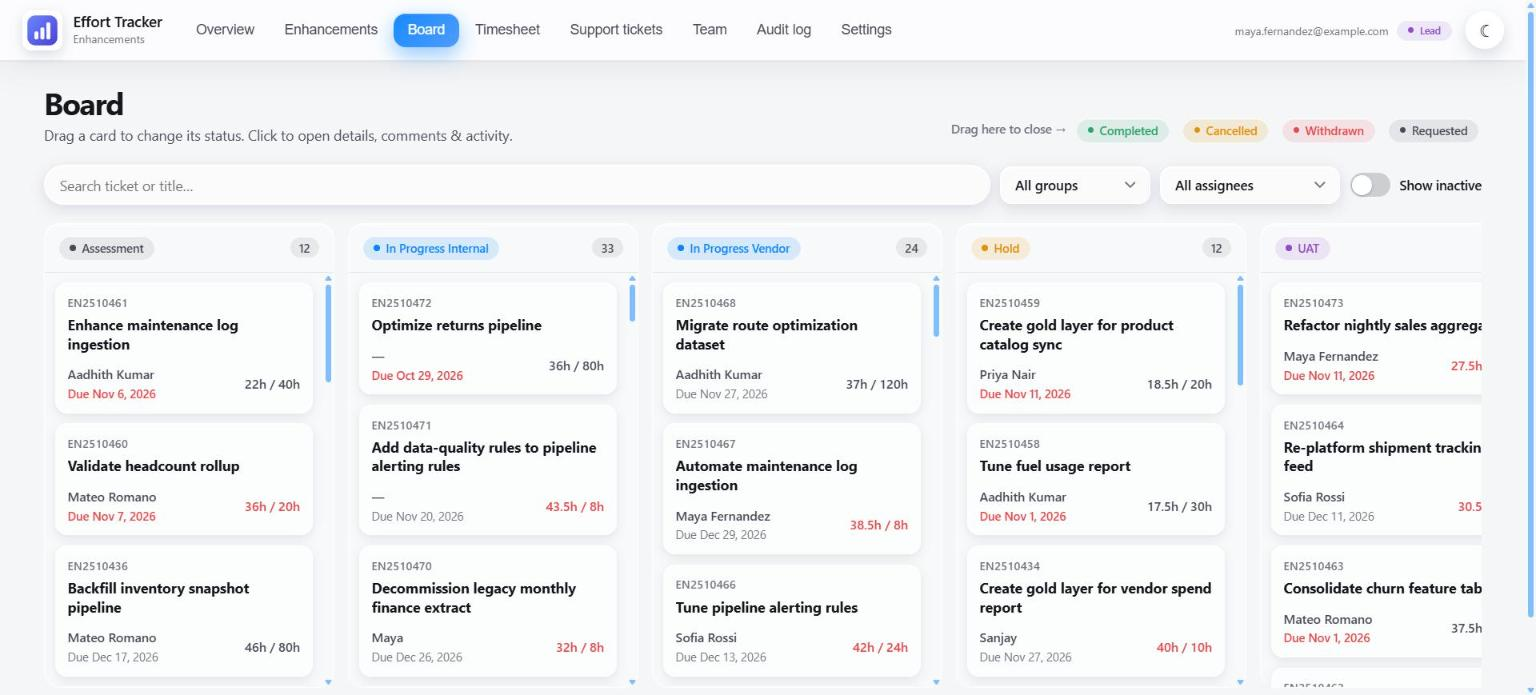
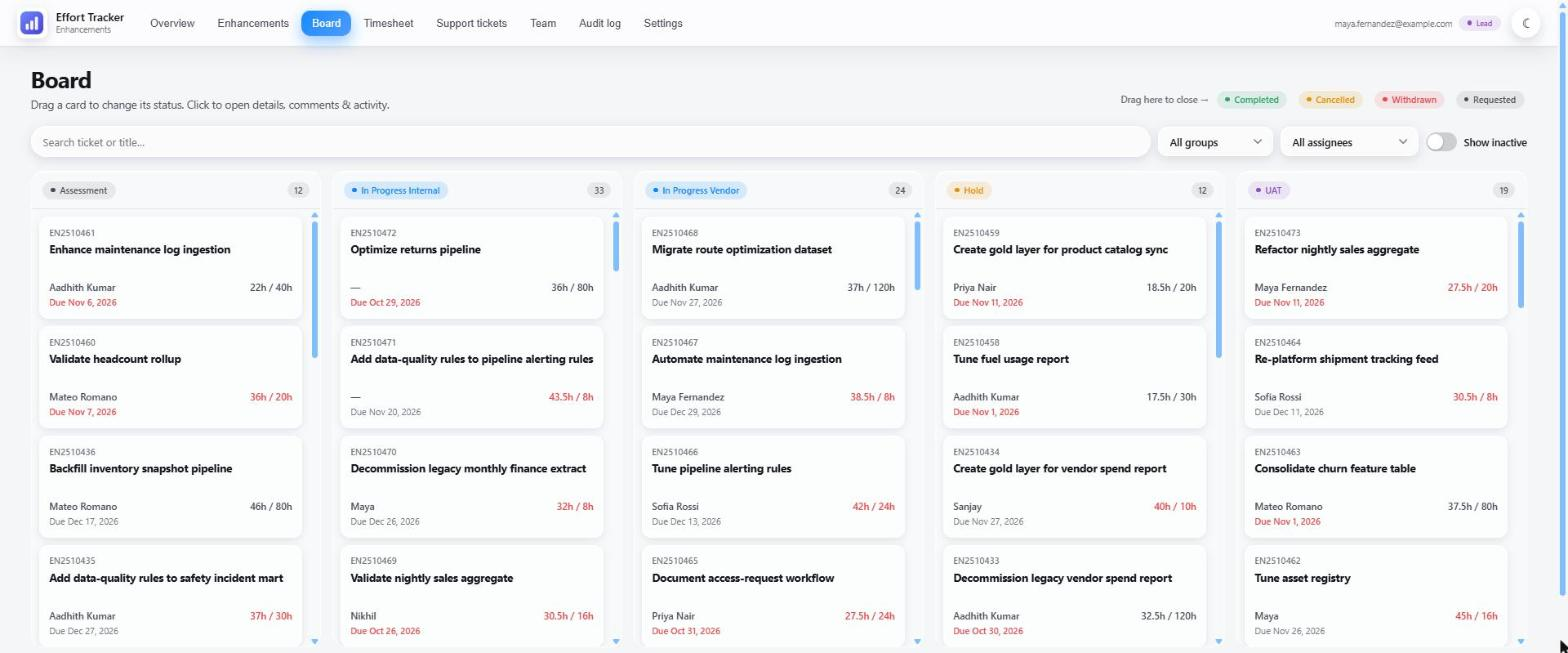
README: refresh screenshots for the current UI, in light and dark
The README shows the dark set to readers using GitHub's dark theme.

diff --git a/README.md b/README.md
@@ -9,13 +9,30 @@ no audit trail) with a validated, logged web app deployed as a **Databricks App*
 
 ![CI/CD](https://github.com/Aadhith-Sakthivel/effort-tracker/actions/workflows/ci-cd.yml/badge.svg)
 
-![Overview](docs/screenshots/overview.jpg)
+<picture>
+  <source media="(prefers-color-scheme: dark)" srcset="docs/screenshots/overview-dark.jpg">
+  <img alt="Overview dashboard" src="docs/screenshots/overview.jpg">
+</picture>
 
-| Board | Timesheet |
-|---|---|
-| ![Board](docs/screenshots/board.jpg) | ![Timesheet](docs/screenshots/timesheet.jpg) |
+<table>
+  <tr>
+    <td><picture>
+  <source media="(prefers-color-scheme: dark)" srcset="docs/screenshots/board-dark.jpg">
+  <img alt="Kanban board" src="docs/screenshots/board.jpg">
+</picture></td>
+    <td><picture>
+  <source media="(prefers-color-scheme: dark)" srcset="docs/screenshots/timesheet-dark.jpg">
+  <img alt="Month timesheet" src="docs/screenshots/timesheet.jpg">
+</picture></td>
+  </tr>
+</table>
 
-![Enhancements](docs/screenshots/enhancements.jpg)
+<picture>
+  <source media="(prefers-color-scheme: dark)" srcset="docs/screenshots/enhancements-dark.jpg">
+  <img alt="Enhancements list" src="docs/screenshots/enhancements.jpg">
+</picture>
+
+<sub>Screenshots follow your GitHub theme: dark mode shows the app's dark theme. All data is fictional.</sub>
 
 ## Why this exists
 
